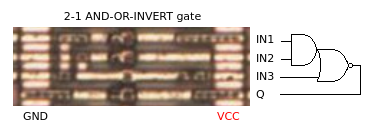
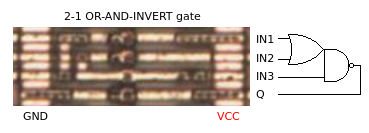
Fix documentation: AOI -> OAI

Changed region(s): [[0.7453, 0.2406, 0.9241, 0.6316], [0.1789, 0.0902, 0.5664, 0.1504], [0.9241, 0.391, 0.9837, 0.6015]]

diff --git a/doc/dmg_cells.html b/doc/dmg_cells.html
@@ -94,12 +94,12 @@ all documented once and for all, to make life easier!</p>
  </li>
  <li><a href="#compound">Compound logic gates</a>
   <ul>
-   <li><a href="#aoi">AOI</a></li>
    <li><a href="#ao1">AO1</a></li>
    <li><a href="#ao2">AO2</a></li>
    <li><a href="#ao3">AO3</a></li>
    <li><a href="#ao4">AO4</a></li>
    <li><a href="#ao6">AO6</a></li>
+   <li><a href="#oai">OAI</a></li>
    <li><a href="#oa">OA</a></li>
    <li><a href="#muxi">MUXI</a></li>
    <li><a href="#mux">MUX</a></li>
@@ -2628,26 +2628,6 @@ all documented once and for all, to make life easier!</p>
 (110 total)
 </p>
 <h2 id="compound">Compound logic gates</h2>
-<h3 id="aoi">AOI</h3>
-<p>2-1 AND-OR-INVERT two-level compound gate.</p>
-<p>Name in <a href="https://github.com/furrtek/DMG-CPU-Inside">DMG-CPU-Inside</a>: NAO</p>
-<table>
-<tr><td><img src="img/cells/cufe_desc.png" style="min-width:350px;" alt=""></td>
-<td><table class="default">
-<tr><th>I/O</th><th>Description</th></tr>
-<tr><td><i>IN1</i>, <i>IN2</i></td>
-<td>Inputs to AND gate.</td></tr>
-<tr><td><i>IN3</i></td>
-<td>Input to OR gate.</td></tr>
-<tr><td><i>Q</i></td>
-<td>Outputs <code>!((IN1 &amp;&amp; IN2) || IN3)</code>.</td></tr>
-</table></td></tr>
-</table>
-<p><img src="img/cells/aoi_cmos.png" alt=""></p>
-<p>Instances:
-<a href="/dmg_cpu_b_map/?view=cufe">CUFE</a>
-(1 total)
-</p>
 <h3 id="ao1">AO1</h3>
 <p>2-1 AND-OR two-level compound gate.</p>
 <p>Name in <a href="https://github.com/furrtek/DMG-CPU-Inside">DMG-CPU-Inside</a>: AO3</p>
@@ -2770,6 +2750,26 @@ all documented once and for all, to make life easier!</p>
 <p><img src="img/cells/ao6_cmos.png" alt=""></p>
 <p>Instances:
 <a href="/dmg_cpu_b_map/?view=etyr">ETYR</a>
+(1 total)
+</p>
+<h3 id="oai">OAI</h3>
+<p>2-1 OR-AND-INVERT two-level compound gate.</p>
+<p>Name in <a href="https://github.com/furrtek/DMG-CPU-Inside">DMG-CPU-Inside</a>: NAO</p>
+<table>
+<tr><td><img src="img/cells/cufe_desc.png" style="min-width:350px;" alt=""></td>
+<td><table class="default">
+<tr><th>I/O</th><th>Description</th></tr>
+<tr><td><i>IN1</i>, <i>IN2</i></td>
+<td>Inputs to OR gate.</td></tr>
+<tr><td><i>IN3</i></td>
+<td>Input to AND gate.</td></tr>
+<tr><td><i>Q</i></td>
+<td>Outputs <code>!((IN1 || IN2) &amp;&amp; IN3)</code>.</td></tr>
+</table></td></tr>
+</table>
+<p><img src="img/cells/oai_cmos.png" alt=""></p>
+<p>Instances:
+<a href="/dmg_cpu_b_map/?view=cufe">CUFE</a>
 (1 total)
 </p>
 <h3 id="oa">OA</h3>
